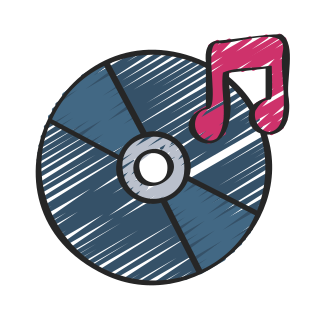
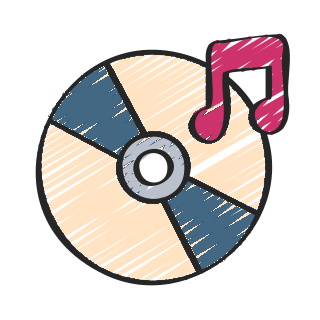
(feat) added tilting animation for project cards when hovering over them; also fixed blinking animation for typewriter cursor

diff --git a/client-app/src/components/ProjectTile/ProjectTile.tsx b/client-app/src/components/ProjectTile/ProjectTile.tsx
@@ -1,3 +1,4 @@
+import { useRef } from "react";
 import { Project } from "../../model/Project";
 import styles from "./ProjectTile.module.css"
 
@@ -6,20 +7,58 @@ interface ProjectTileProps {
 	onClick: () => void;
 }
 
-const ProjectTile: React.FC<ProjectTileProps> = ({ project, onClick }) => (
-	<div
-		className={styles.project_tile}
-		onClick={onClick}
-	>
-		<img
-			src={project.thumbnail ? project.thumbnail : "./assets/images/projects/default-thumbnail.png"}
-			alt={project.title}
-			className={styles.thumbnail_img}
-		/>
-		<div className={styles.overlay}>
-			<h2 style={{ fontFamily: "Alsina, monospace, cursive", fontSize: "2rem", letterSpacing: "0.1rem" }}>{project.title}</h2>
-		</div>
-	</div>
-);
+const ProjectTile: React.FC<ProjectTileProps> = ({ project, onClick }) => {
+	const hitboxRef = useRef<HTMLButtonElement>(null);
+	const cardRef = useRef<HTMLDivElement>(null);
+
+	const handleMouseMove = (e: React.MouseEvent<HTMLButtonElement>) => {
+		if (!hitboxRef.current || !cardRef.current) return;
+
+		const rect = hitboxRef.current.getBoundingClientRect();
+		const x = e.clientX - rect.left;
+		const y = e.clientY - rect.top;
+
+		const centerX = rect.width / 2;
+		const centerY = rect.height / 2;
+
+		const rotateX = ((y - centerY) / centerY) * -15;
+		const rotateY = ((x - centerX) / centerX) * 15;
+
+		cardRef.current.style.setProperty('--rx', `${rotateX}deg`);
+		cardRef.current.style.setProperty('--ry', `${rotateY}deg`);
+	};
+
+	const handleMouseEnter = () => {
+		if (!cardRef.current) return;
+		cardRef.current.style.transition = 'none';
+	};
+
+	const handleMouseLeave = () => {
+		if (!cardRef.current) return;
+		cardRef.current.style.transition = 'transform 0.5s ease';
+		cardRef.current.style.setProperty('--rx', '0deg');
+		cardRef.current.style.setProperty('--ry', '0deg');
+	};
+
+	return (
+		<button
+			type="button"
+			ref={hitboxRef}
+			className={styles.project_tile_hitbox}
+			onClick={onClick}
+			onMouseMove={handleMouseMove}
+			onMouseEnter={handleMouseEnter}
+			onMouseLeave={handleMouseLeave}
+		>
+			<div ref={cardRef} className={styles.project_tile_inner}>
+				<img
+					src={project.thumbnail ? project.thumbnail : "./assets/images/projects/default-thumbnail.png"}
+					alt={project.title}
+					className={styles.thumbnail_img}
+				/>
+			</div>
+		</button>
+	);
+};
 
 export default ProjectTile;

diff --git a/client-app/src/components/ProjectTile/ProjectTile.module.css b/client-app/src/components/ProjectTile/ProjectTile.module.css
@@ -1,41 +1,34 @@
-.project_tile {
+.project_tile_hitbox {
+    background: none;
+    border: none;
+    padding: 0;
+    text-align: left;
+    appearance: none;
+
     cursor: pointer;
     width: 100%;
-    padding: 0;
     height: var(--project-tile-height);
-    border: none;
     position: relative;
-    display: flex;
-    align-items: stretch;
-    justify-content: stretch;
+    perspective: 1000px;
+}
+
+.project_tile_inner {
+    width: 100%;
+    height: 100%;
     border-radius: 10px;
     overflow: hidden;
 
-    .thumbnail_img {
-        width: 100%;
-        height: 100%;
-        object-fit: cover;
-        pointer-events: none;
-        user-select: none;
-        position: absolute;
-        top: 0;
-        left: 0;
-        z-index: -1;
-    }
+    transform: rotateX(var(--rx, 0deg)) rotateY(var(--ry, 0deg));
+    transform-style: preserve-3d;
+    will-change: transform;
+    transition: transform 0.5s ease;
+}
 
-    .overlay {
-        display: none;
-        flex: 1 1 100%;
-        flex-direction: column;
-        justify-content: center;
-        align-items: center;
-        padding: 10px;
-        background: rgba(0, 0, 0, 0.7);
-        color: white;
-        border-radius: 10px;
-    }
-    
-    &:hover .overlay {
-        display: flex;
-    }
+.thumbnail_img {
+    width: 100%;
+    height: 100%;
+    object-fit: cover;
+    pointer-events: none;
+    user-select: none;
+    display: block;
 }

diff --git a/client-app/src/main-sections/Intro/Intro.module.css b/client-app/src/main-sections/Intro/Intro.module.css
@@ -35,10 +35,7 @@
 		background-color: white;
 		margin-left: 8px;
 
-		animation-name: terminalBlink;
-		animation-duration: 1s;
-		animation-timing-function: step-end;
-		animation-iteration-count: infinite;
+		animation: cf-bc-blink 1.5s steps(2, end) infinite;
 	}
 
 	@media (min-width: 800px) {
@@ -72,15 +69,16 @@
 		}
 	}
 
-	@keyframes terminalBlink {
+}
+@keyframes cf-bc-blink {
 
-		0%,
-		100% {
-			opacity: 1;
-		}
+	0%,
+	50% {
+		opacity: 1;
+	}
 
-		50% {
-			opacity: 0;
-		}
+	50.01%,
+	100% {
+		opacity: 0;
 	}
 }

diff --git a/client-app/src/main-sections/Projects/Projects.module.css b/client-app/src/main-sections/Projects/Projects.module.css
@@ -4,5 +4,5 @@
 	gap: 25px;
 	justify-items: center;
 	align-items: center;
-	margin-bottom: 5rem;
+	margin: 10px;
 }
